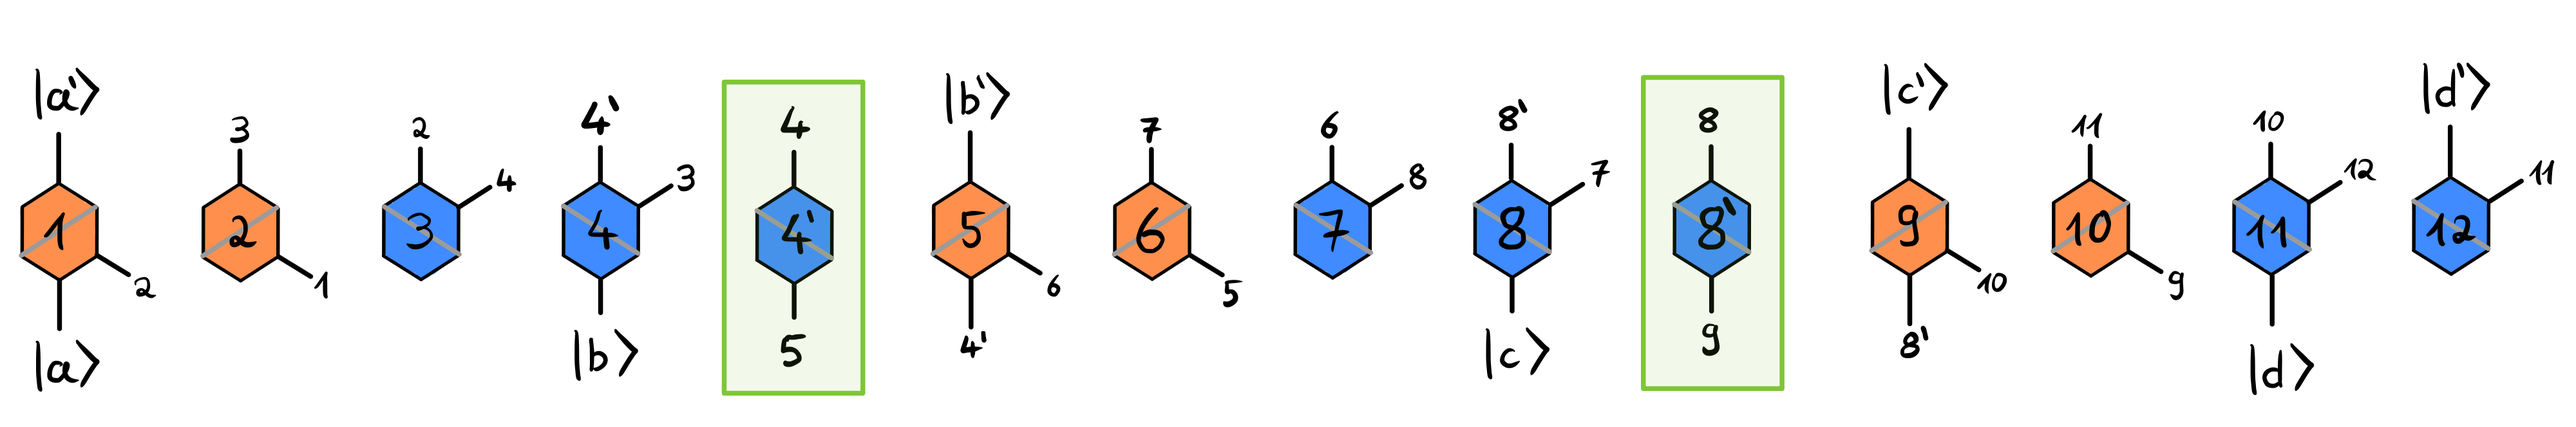
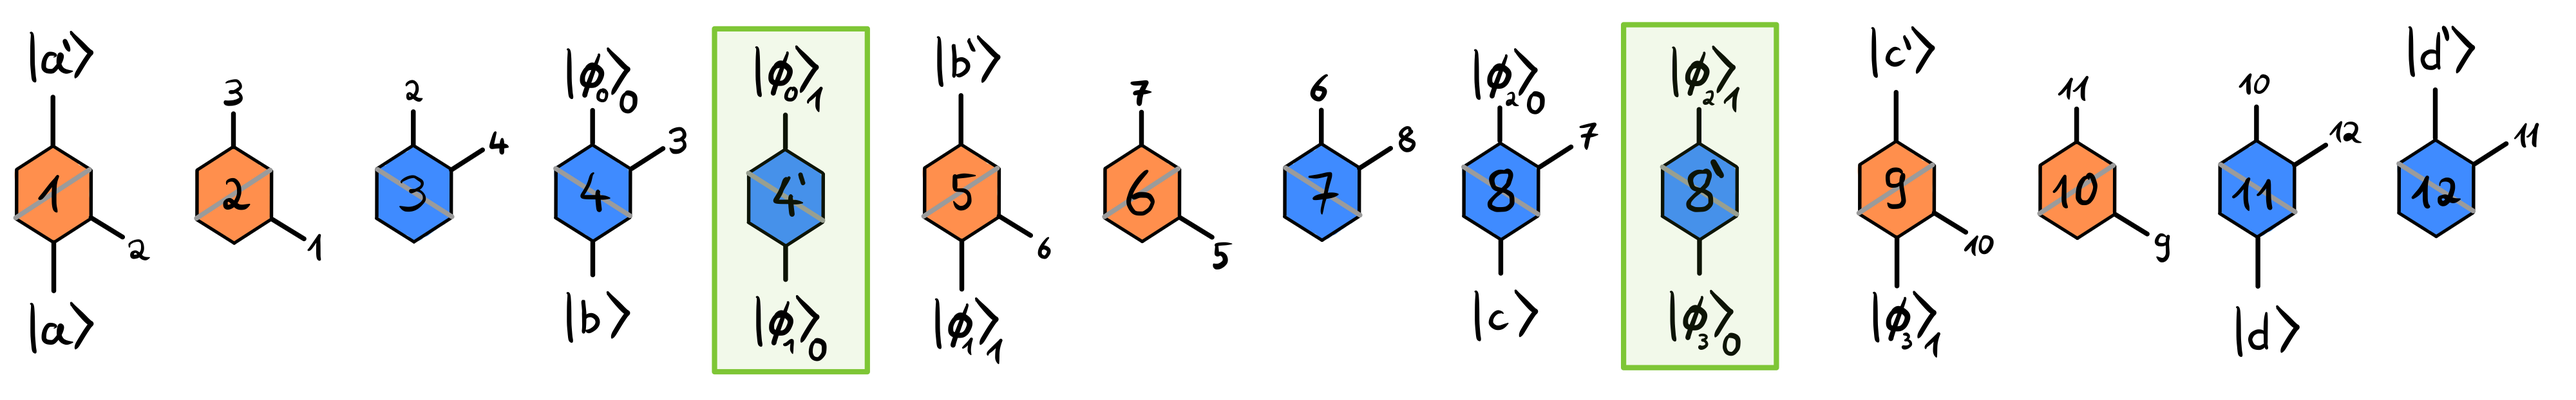
update a drawing

diff --git a/demonstrations_v2/tutorial_active_volume/demo.py b/demonstrations_v2/tutorial_active_volume/demo.py
@@ -582,7 +582,9 @@ acting on :math:`14` qubits:
     :width: 95%
     :target: javascript:void(0)
 
-The idling blocks are marked in green.
+The idling blocks are marked in green and connect to the three CNOT networks via Bell states
+:math:`|\phi_i\rangle`. (We denote the two components of the Bell state as 
+:math:`|\phi_i\rangle_{0,1}` even though it is not a product state.)
 However, recall the logical network into which we compiled the CNOT ladder earlier:
 
 .. figure:: _static/demonstration_assets/active_volume/example-logical-network.png
